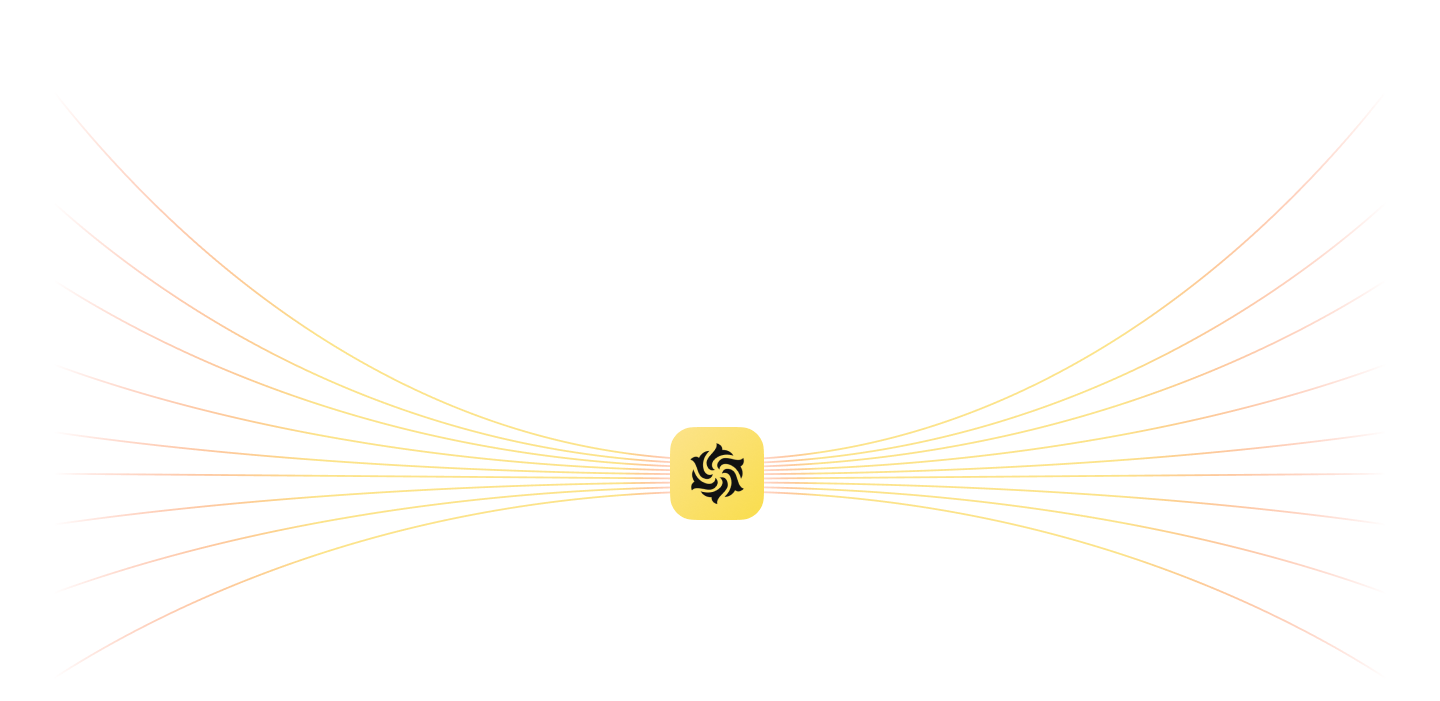
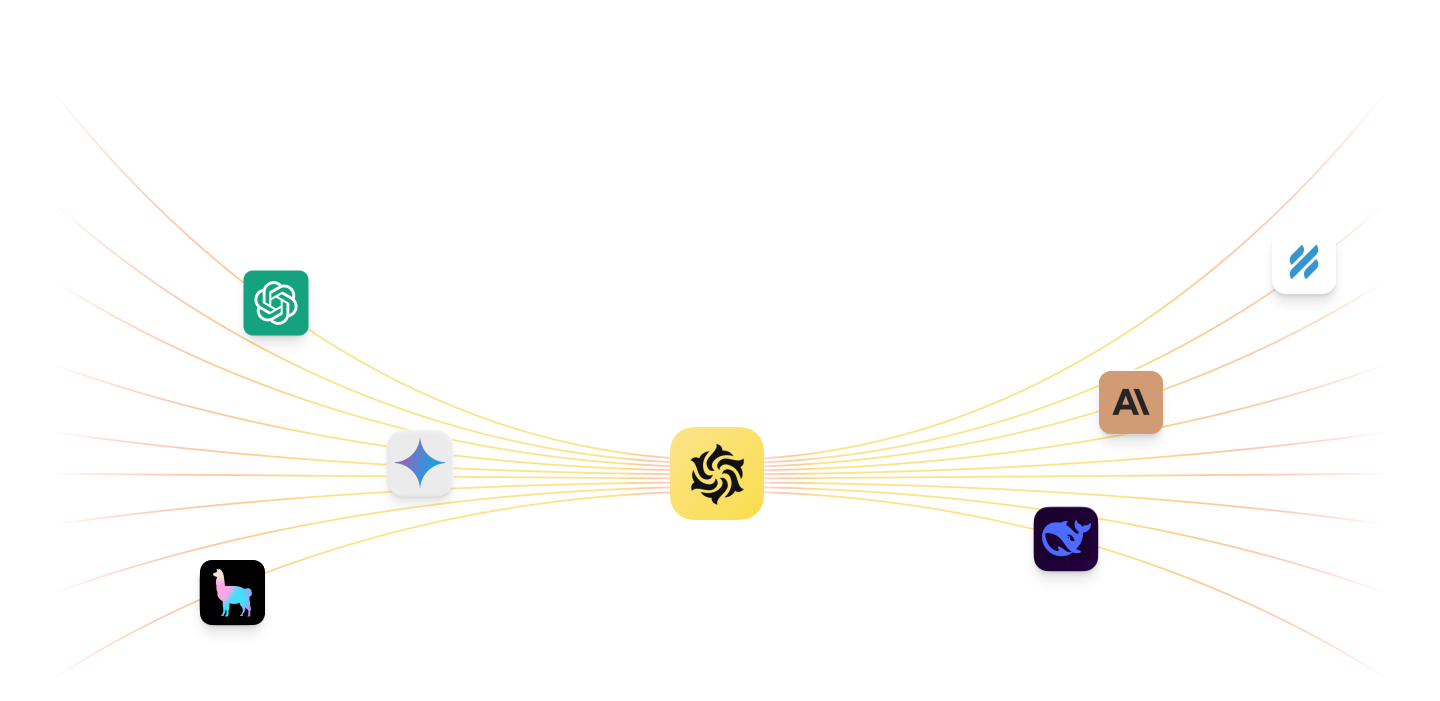
hero

diff --git a/components/Hero.tsx b/components/Hero.tsx
@@ -30,67 +30,6 @@ function Hero() {
         </Link>
       </div>
 
-      {/* Logos Section */}
-      <div className="relative w-full max-w-[1200px] h-[400px] mt-16">
-        {/* Left side logos */}
-        <div className="absolute left-[25%] top-[25%] animate-float-slow">
-          <Image
-            src={Logo1}
-            alt="Logo 1"
-            width={60}
-            height={60}
-            className="rounded-xl"
-          />
-        </div>
-        <div className="absolute left-[10%] top-[50%] animate-float-medium">
-          <Image
-            src={Logo2}
-            alt="Logo 2"
-            width={60}
-            height={60}
-            className="rounded-xl"
-          />
-        </div>
-        <div className="absolute left-[10%] -top-[5%] animate-float-medium">
-          <Image
-            src={Logo2}
-            alt="Logo 2"
-            width={60}
-            height={60}
-            className="rounded-xl"
-          />
-        </div>
-
-        {/* Right side logos */}
-        <div className="absolute right-[25%] top-[40%] animate-float-fast">
-          <Image
-            src={Logo3}
-            alt="Logo 3"
-            width={60}
-            height={60}
-            className="rounded-xl"
-          />
-        </div>
-        <div className="absolute right-[10%] top-[20%] animate-float-medium">
-          <Image
-            src={Logo4}
-            alt="Logo 4"
-            width={60}
-            height={60}
-            className="rounded-xl"
-          />
-        </div>
-        <div className="absolute right-0 -top-[20%] animate-float-medium">
-          <Image
-            src={Logo4}
-            alt="Logo 4"
-            width={60}
-            height={60}
-            className="rounded-xl"
-          />
-        </div>
-      </div>
-
       <Image
         src={Herobg}
         alt="Hero Background"
